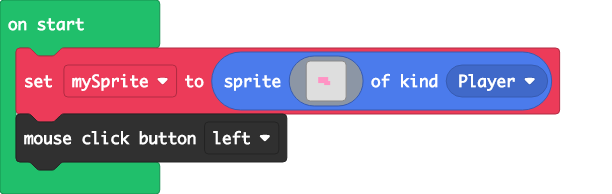
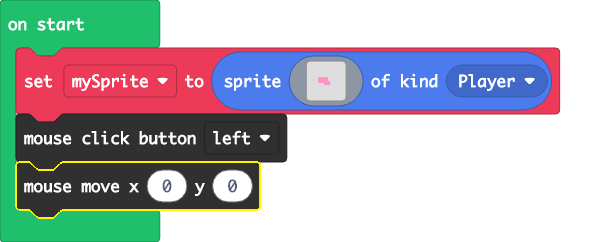
Update main.blocks, main.ts

diff --git a/main.ts b/main.ts
@@ -17,3 +17,4 @@ let mySprite = sprites.create(img`
     . . . . . . . . . . . . . . . . 
     `, SpriteKind.Player)
 mouse.click(MouseButton.Left)
+mouse.move(0, 0)
